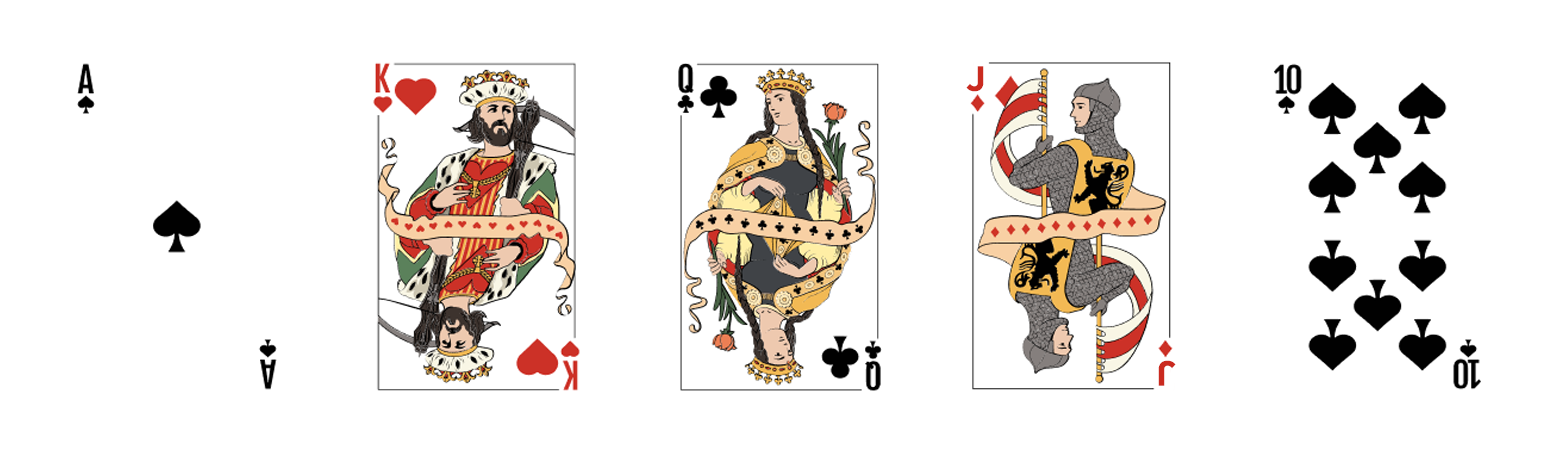
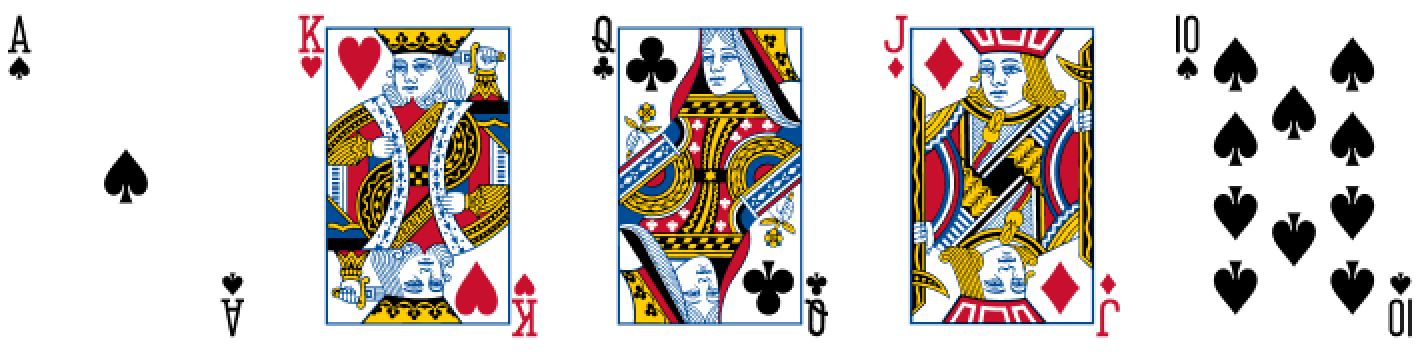
Working on card selection

diff --git a/lib/screens/profile_screens/card_selector_screen.dart b/lib/screens/profile_screens/card_selector_screen.dart
@@ -53,7 +53,9 @@ class _CardSelectorScreenState extends State<CardSelectorScreen>
     _cardBackAssets = AssetService.getCardBacks();
     _betAssets = AssetService.getDials();
     for (final asset in _betAssets) {
-      await AssetService.saveFile(asset);
+      if (!(asset.bundled ?? false)) {
+        await AssetService.saveFile(asset);
+      }
     }
     _selectedCardFaceAsset = null;
     _selectedCardBackAsset = null;
@@ -162,15 +164,21 @@ class _CardSelectorScreenState extends State<CardSelectorScreen>
                 isDownloading = true;
               });
 
-              if (!_selectedCardFaceAsset.downloaded) {
-                log("Downloading ${_selectedCardFaceAsset.id} : ${_selectedCardFaceAsset.name}");
-                _cardFaceAssets[index] =
-                    await AssetService.saveFile(_cardFaceAssets[index]);
-                await AssetService.hiveStore.put(_cardFaceAssets[index]);
+              if (!(_selectedCardFaceAsset.bundled ?? false)) {
+                if (!_selectedCardFaceAsset.downloaded) {
+                  log("Downloading ${_selectedCardFaceAsset.id} : ${_selectedCardFaceAsset.name}");
+                  _cardFaceAssets[index] =
+                      await AssetService.saveFile(_cardFaceAssets[index]);
+                  await AssetService.hiveStore.put(_cardFaceAssets[index]);
+                }
+                setState(() {
+                  isDownloading = false;
+                });
+              } else {
+                setState(() {
+                  isDownloading = false;
+                });
               }
-              setState(() {
-                isDownloading = false;
-              });
 
               final theme = AppTheme.getTheme(context);
               AppThemeData data = theme.themeData;
@@ -192,6 +200,10 @@ class _CardSelectorScreenState extends State<CardSelectorScreen>
               child: Stack(
                 alignment: Alignment.center,
                 children: [
+
+                  _cardFaceAssets[index].bundled ?? false ?
+                    Image.asset(_cardFaceAssets[index].previewLink, fit: BoxFit.fill)
+                  :
                   CachedNetworkImage(
                     imageUrl: _cardFaceAssets[index].previewLink,
                     fit: BoxFit.fill,
@@ -429,10 +441,18 @@ class _CardSelectorScreenState extends State<CardSelectorScreen>
         ),
         padding: EdgeInsets.symmetric(horizontal: 8),
         itemBuilder: (context, index) {
-          return SvgPicture.file(
-            File("$dirPath/${CardConvUtils.getCardName(index)}.svg"),
-            fit: BoxFit.contain,
-          );
+          if (_selectedCardFaceAsset.bundled ?? false) {
+
+            return SvgPicture.asset(
+              '${_selectedCardFaceAsset.downloadedPath}/${CardConvUtils.getCardName(index)}.svg',
+              fit: BoxFit.contain,
+            );
+          } else {
+            return SvgPicture.file(
+              File("$dirPath/${CardConvUtils.getCardName(index)}.svg"),
+              fit: BoxFit.contain,
+            );
+          }
         },
         itemCount: 52,
       );

diff --git a/lib/models/game_play_models/provider_models/game_state.dart b/lib/models/game_play_models/provider_models/game_state.dart
@@ -8,21 +8,17 @@ import 'package:pokerapp/enums/game_status.dart';
 import 'package:pokerapp/enums/game_type.dart';
 import 'package:pokerapp/enums/hand_actions.dart';
 import 'package:pokerapp/enums/player_status.dart';
-import 'package:pokerapp/main.dart';
 import 'package:pokerapp/models/game_play_models/business/game_info_model.dart';
 import 'package:pokerapp/models/game_play_models/business/player_model.dart';
 import 'package:pokerapp/models/game_play_models/provider_models/marked_cards.dart';
 import 'package:pokerapp/models/game_play_models/provider_models/seat.dart';
 import 'package:pokerapp/models/game_play_models/ui/board_attributes_object/board_attributes_object.dart';
 import 'package:pokerapp/models/player_info.dart';
-import 'package:pokerapp/models/ui/app_theme.dart';
 import 'package:pokerapp/resources/app_constants.dart';
-import 'package:pokerapp/resources/new/app_assets_new.dart';
 import 'package:pokerapp/services/agora/agora.dart';
 import 'package:pokerapp/services/app/asset_service.dart';
 import 'package:pokerapp/services/app/game_service.dart';
 import 'package:pokerapp/services/app/handlog_cache_service.dart';
-import 'package:pokerapp/services/app/user_settings_service.dart';
 import 'package:pokerapp/services/data/asset_hive_store.dart';
 import 'package:pokerapp/services/data/game_hive_store.dart';
 import 'package:pokerapp/services/data/hive_models/game_settings.dart';
@@ -1237,9 +1233,10 @@ class GameScreenAssets {
       final cardStr = CardConvUtils.getString(card);
       Uint8List cardBytes;
       if (cardFace.bundled) {
-        cardBytes = (await rootBundle.load('${cardFace.downloadDir}/$card.svg'))
-            .buffer
-            .asUint8List();
+        cardBytes =
+            (await rootBundle.load('${cardFace.downloadDir}/$cardStr.svg'))
+                .buffer
+                .asUint8List();
       } else {
         String filename = '${cardFace.downloadDir}/$card.svg';
         if (!File(filename).existsSync()) {

diff --git a/lib/screens/game_play_screen/game_play_screen.dart b/lib/screens/game_play_screen/game_play_screen.dart
@@ -793,8 +793,7 @@ class _GamePlayScreenState extends State<GamePlayScreen>
             // SizedBox(width: width, height: divider1 / 2),
 
             // main board view
-            Consumer<RedrawTopSectionState>(
-            builder: (_, ___, __) {            
+            Consumer<RedrawTopSectionState>(builder: (_, ___, __) {
               return _buildBoardView(boardDimensions, tableScale);
             }),
 

diff --git a/lib/utils/utils.dart b/lib/utils/utils.dart
@@ -240,6 +240,7 @@ class CardConvUtils {
     194: 'Ah',
     196: 'Ad'
   };
+  
   static getString(int cardNum) {
     return cardNumbers[cardNum];
   }
@@ -266,4 +267,6 @@ class CardConvUtils {
     }
     return cardNamesInSequence[index];
   }
+
+  
 }
